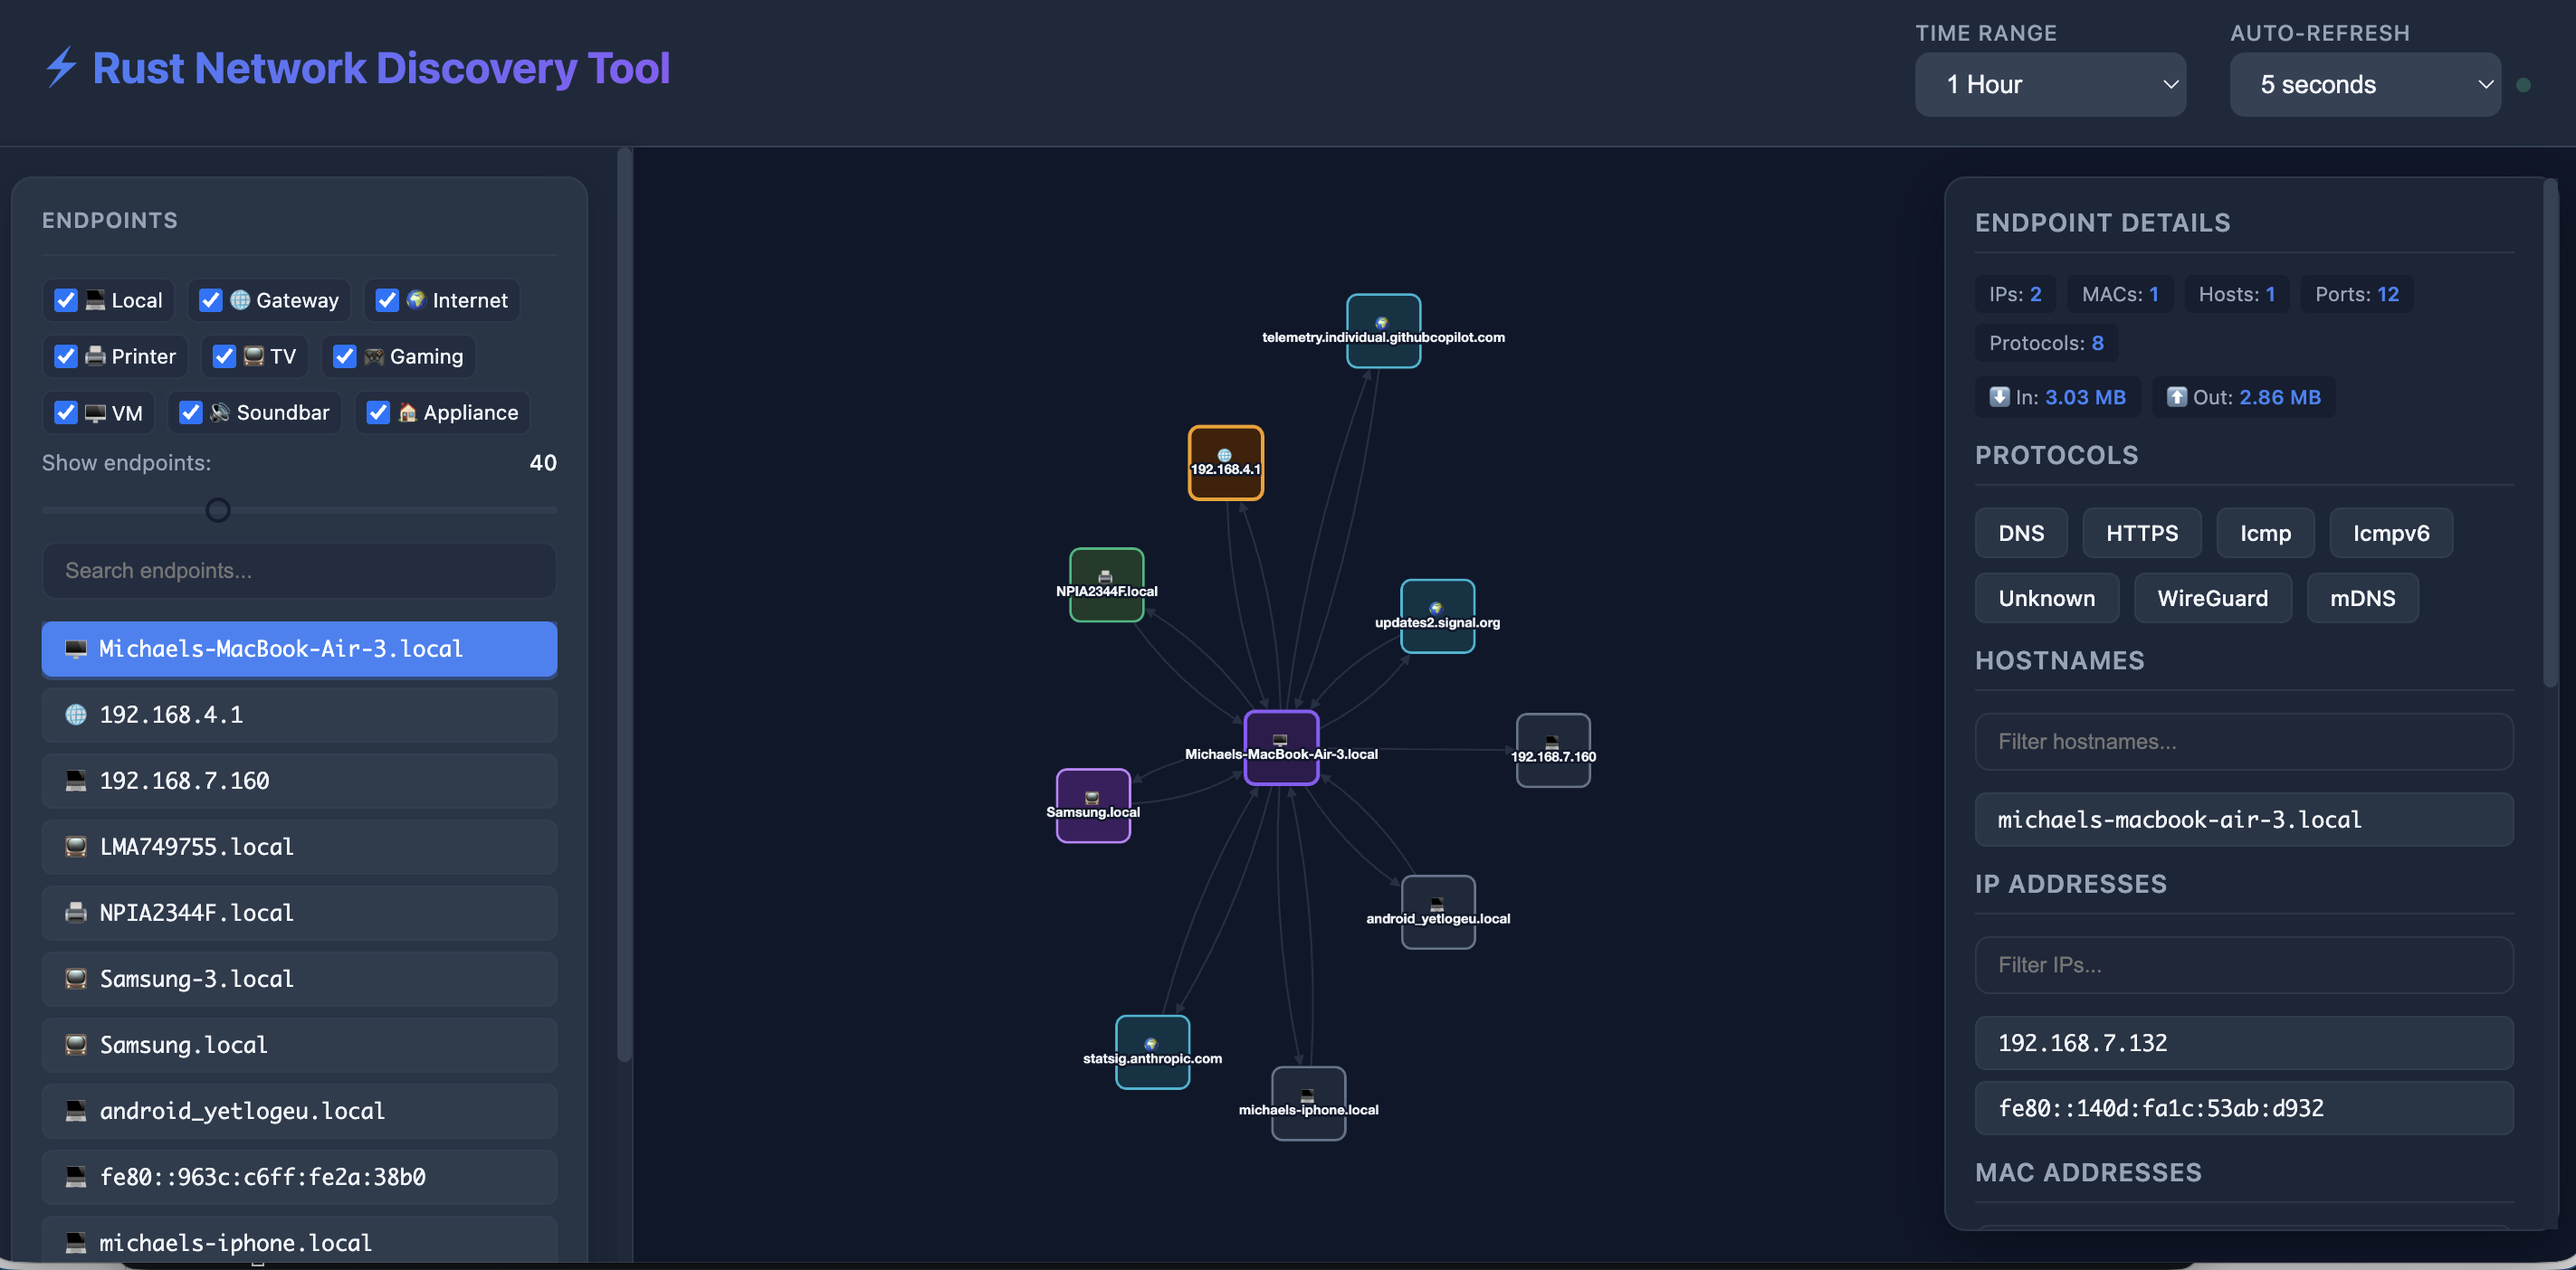
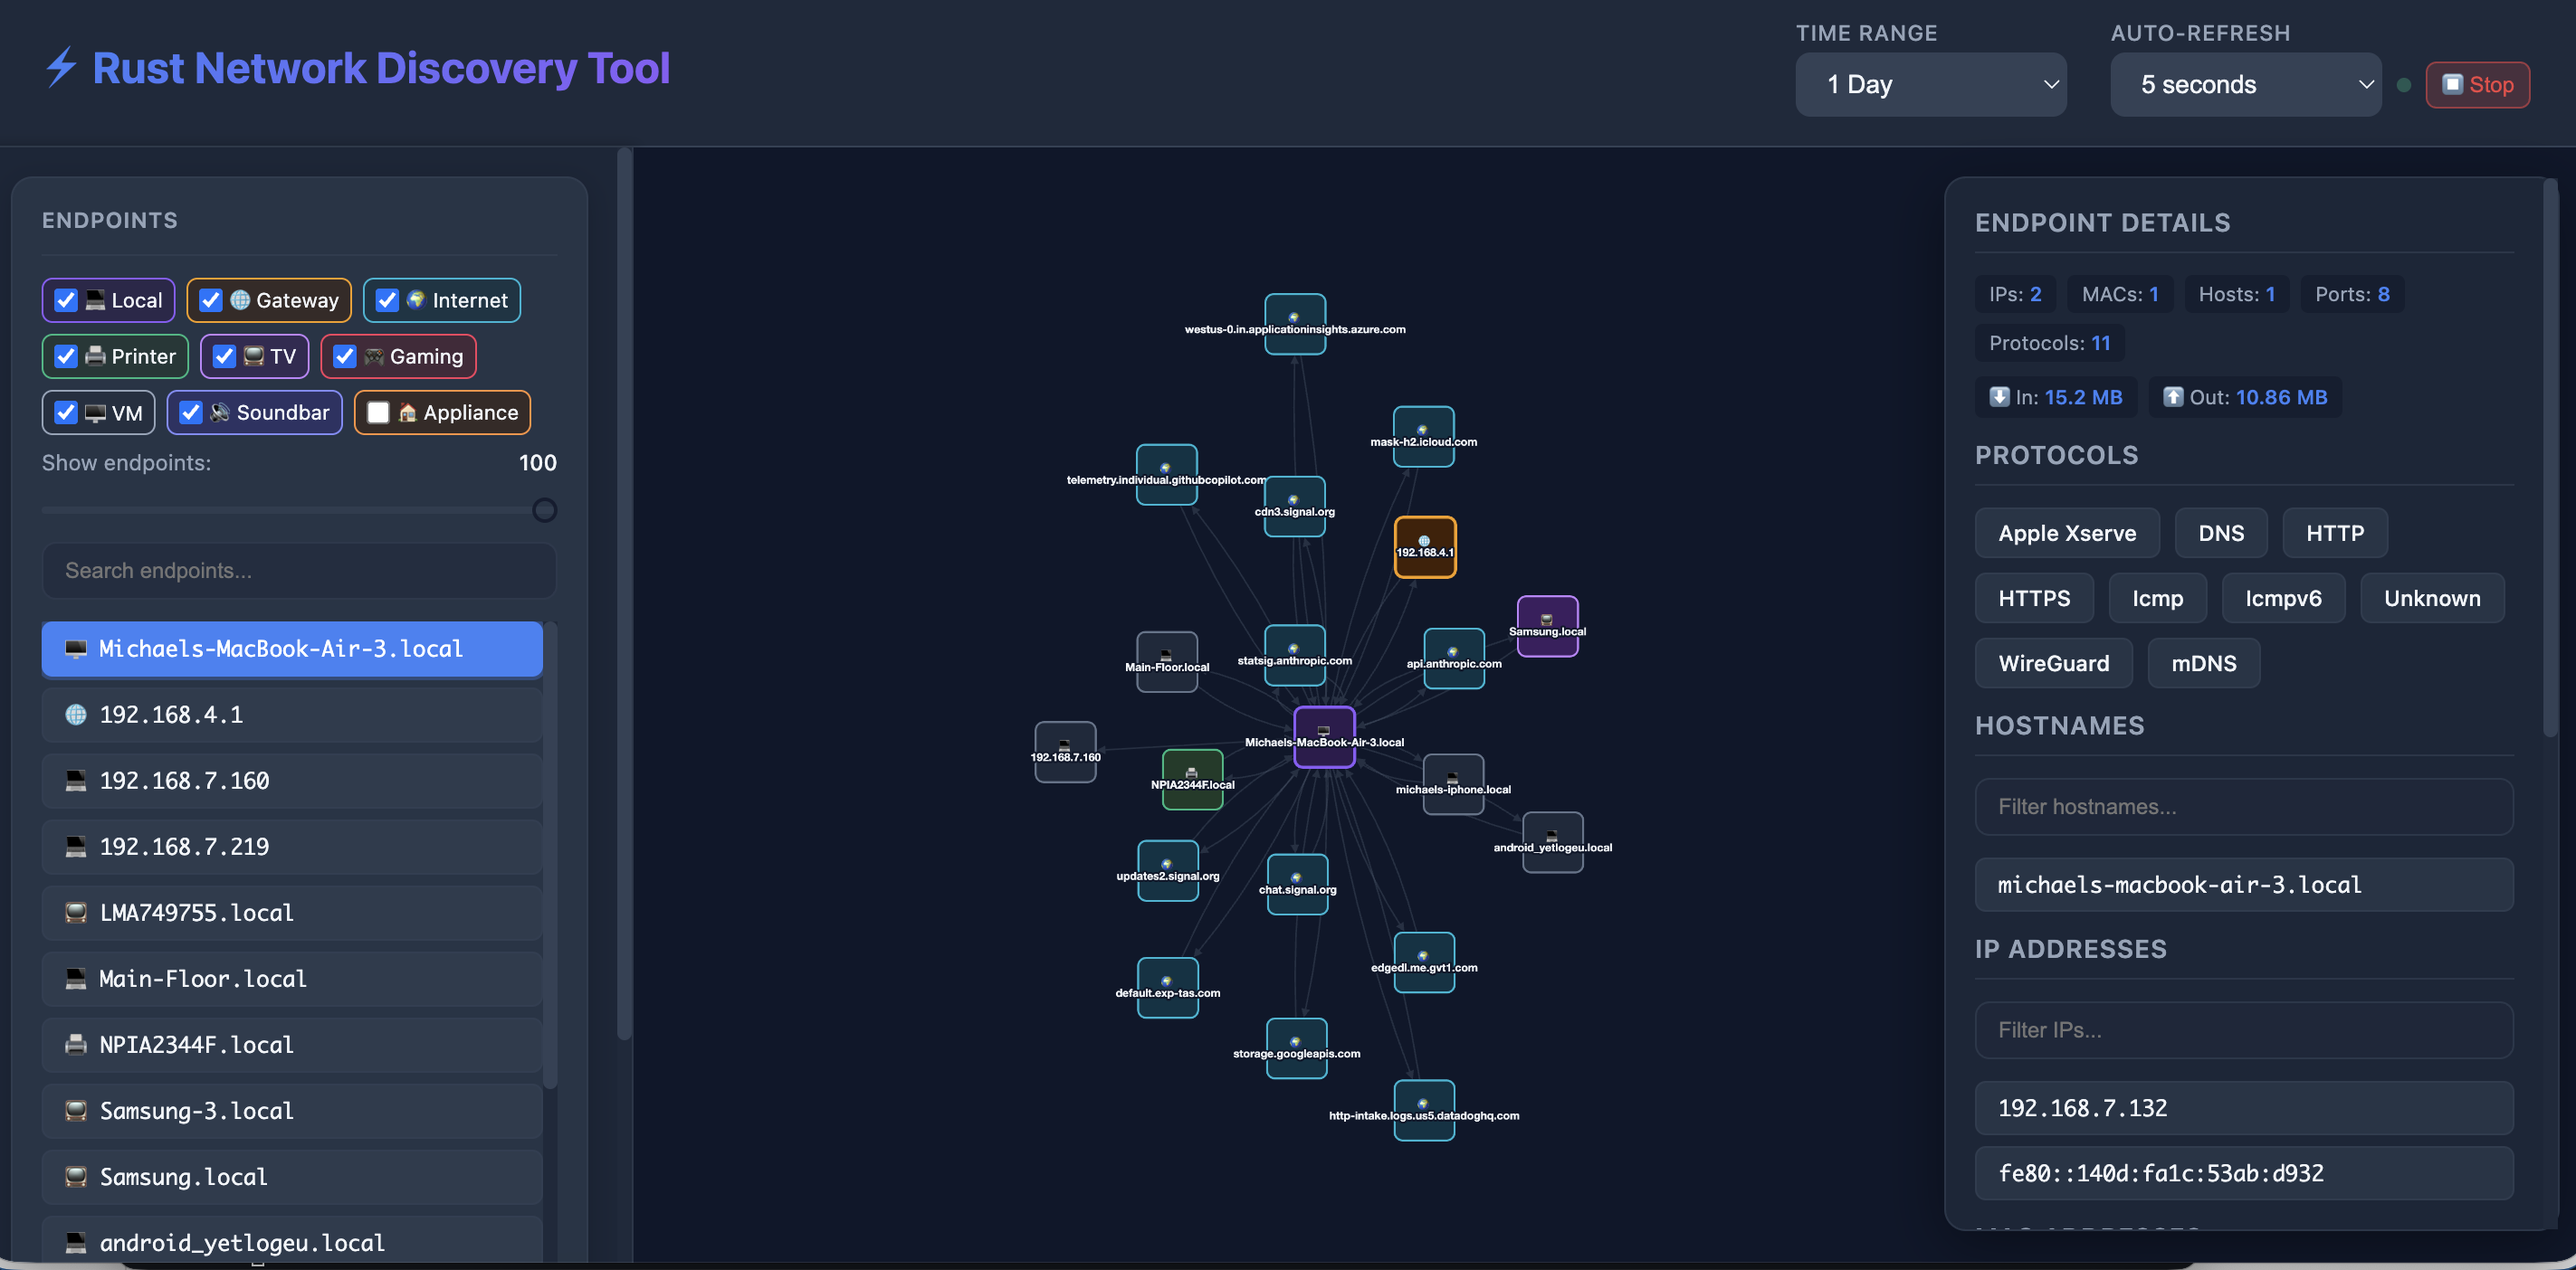
fix: More UI updates

diff --git a/templates/index.html b/templates/index.html
@@ -286,6 +286,41 @@
       50% { opacity: 0.3; }
     }
 
+    .stop-refresh-btn {
+      padding: 0.25rem 0.5rem;
+      background: rgba(239, 68, 68, 0.2);
+      border: 1px solid rgba(239, 68, 68, 0.5);
+      color: #ef4444;
+      border-radius: 0.375rem;
+      cursor: pointer;
+      font-size: 0.75rem;
+      display: flex;
+      align-items: center;
+      gap: 0.25rem;
+      transition: all 0.2s ease;
+    }
+
+    .stop-refresh-btn:hover {
+      background: rgba(239, 68, 68, 0.3);
+      border-color: #ef4444;
+      transform: scale(1.05);
+    }
+
+    .stop-refresh-btn:active {
+      transform: scale(0.95);
+    }
+
+    .stop-refresh-btn.play {
+      background: rgba(34, 197, 94, 0.2);
+      border: 1px solid rgba(34, 197, 94, 0.5);
+      color: #22c55e;
+    }
+
+    .stop-refresh-btn.play:hover {
+      background: rgba(34, 197, 94, 0.3);
+      border-color: #22c55e;
+    }
+
     /* Scrollbar styling */
     ::-webkit-scrollbar {
       width: 8px;
@@ -497,6 +532,9 @@
             <option value="60">1 minute</option>
           </select>
           <div class="pulse"></div>
+          <button id="refreshToggleBtn" onclick="toggleRefresh()" class="stop-refresh-btn" title="Stop auto-refresh">
+            ⏹ Stop
+          </button>
         </div>
       </div>
     </div>
@@ -510,41 +548,41 @@
         <!-- Filters -->
         <div style="display: flex; flex-direction: column; gap: 0.375rem; margin-top: 0.75rem; margin-bottom: 0.5rem;">
           <div style="display: flex; gap: 0.375rem; flex-wrap: nowrap;">
-            <label style="display: flex; align-items: center; gap: 0.25rem; font-size: 0.7rem; cursor: pointer; padding: 0.25rem 0.375rem; background: rgba(30, 41, 59, 0.6); border-radius: 0.375rem; border: 1px solid rgba(51, 65, 85, 0.6); white-space: nowrap;">
+            <label style="display: flex; align-items: center; gap: 0.25rem; font-size: 0.7rem; cursor: pointer; padding: 0.25rem 0.375rem; background: rgba(45, 27, 78, 0.5); border-radius: 0.375rem; border: 1px solid #8b5cf6; white-space: nowrap;">
               <input type="checkbox" id="filterLocal" checked onchange="applyFilters()" style="cursor: pointer;">
               <span>💻 Local</span>
             </label>
-            <label style="display: flex; align-items: center; gap: 0.25rem; font-size: 0.7rem; cursor: pointer; padding: 0.25rem 0.375rem; background: rgba(30, 41, 59, 0.6); border-radius: 0.375rem; border: 1px solid rgba(51, 65, 85, 0.6); white-space: nowrap;">
+            <label style="display: flex; align-items: center; gap: 0.25rem; font-size: 0.7rem; cursor: pointer; padding: 0.25rem 0.375rem; background: rgba(66, 32, 6, 0.5); border-radius: 0.375rem; border: 1px solid #f59e0b; white-space: nowrap;">
               <input type="checkbox" id="filterGateway" checked onchange="applyFilters()" style="cursor: pointer;">
               <span>🌐 Gateway</span>
             </label>
-            <label style="display: flex; align-items: center; gap: 0.25rem; font-size: 0.7rem; cursor: pointer; padding: 0.25rem 0.375rem; background: rgba(30, 41, 59, 0.6); border-radius: 0.375rem; border: 1px solid rgba(51, 65, 85, 0.6); white-space: nowrap;">
+            <label style="display: flex; align-items: center; gap: 0.25rem; font-size: 0.7rem; cursor: pointer; padding: 0.25rem 0.375rem; background: rgba(8, 51, 68, 0.5); border-radius: 0.375rem; border: 1px solid #06b6d4; white-space: nowrap;">
               <input type="checkbox" id="filterInternet" checked onchange="applyFilters()" style="cursor: pointer;">
               <span>🌍 Internet</span>
             </label>
           </div>
           <div style="display: flex; gap: 0.375rem; flex-wrap: wrap;">
-            <label style="display: flex; align-items: center; gap: 0.25rem; font-size: 0.7rem; cursor: pointer; padding: 0.25rem 0.375rem; background: rgba(30, 41, 59, 0.6); border-radius: 0.375rem; border: 1px solid rgba(51, 65, 85, 0.6); white-space: nowrap;">
+            <label style="display: flex; align-items: center; gap: 0.25rem; font-size: 0.7rem; cursor: pointer; padding: 0.25rem 0.375rem; background: rgba(30, 58, 40, 0.5); border-radius: 0.375rem; border: 1px solid #10b981; white-space: nowrap;">
               <input type="checkbox" id="filterPrinter" checked onchange="applyFilters()" style="cursor: pointer;">
               <span>🖨 Printer</span>
             </label>
-            <label style="display: flex; align-items: center; gap: 0.25rem; font-size: 0.7rem; cursor: pointer; padding: 0.25rem 0.375rem; background: rgba(30, 41, 59, 0.6); border-radius: 0.375rem; border: 1px solid rgba(51, 65, 85, 0.6); white-space: nowrap;">
+            <label style="display: flex; align-items: center; gap: 0.25rem; font-size: 0.7rem; cursor: pointer; padding: 0.25rem 0.375rem; background: rgba(60, 31, 95, 0.5); border-radius: 0.375rem; border: 1px solid #c084fc; white-space: nowrap;">
               <input type="checkbox" id="filterTv" checked onchange="applyFilters()" style="cursor: pointer;">
               <span>📺 TV</span>
             </label>
-            <label style="display: flex; align-items: center; gap: 0.25rem; font-size: 0.7rem; cursor: pointer; padding: 0.25rem 0.375rem; background: rgba(30, 41, 59, 0.6); border-radius: 0.375rem; border: 1px solid rgba(51, 65, 85, 0.6); white-space: nowrap;">
+            <label style="display: flex; align-items: center; gap: 0.25rem; font-size: 0.7rem; cursor: pointer; padding: 0.25rem 0.375rem; background: rgba(92, 28, 46, 0.5); border-radius: 0.375rem; border: 1px solid #f43f5e; white-space: nowrap;">
               <input type="checkbox" id="filterGaming" checked onchange="applyFilters()" style="cursor: pointer;">
               <span>🎮 Gaming</span>
             </label>
-            <label style="display: flex; align-items: center; gap: 0.25rem; font-size: 0.7rem; cursor: pointer; padding: 0.25rem 0.375rem; background: rgba(30, 41, 59, 0.6); border-radius: 0.375rem; border: 1px solid rgba(51, 65, 85, 0.6); white-space: nowrap;">
+            <label style="display: flex; align-items: center; gap: 0.25rem; font-size: 0.7rem; cursor: pointer; padding: 0.25rem 0.375rem; background: rgba(30, 41, 59, 0.5); border-radius: 0.375rem; border: 1px solid #94a3b8; white-space: nowrap;">
               <input type="checkbox" id="filterVirtualization" checked onchange="applyFilters()" style="cursor: pointer;">
               <span>🖥 VM</span>
             </label>
-            <label style="display: flex; align-items: center; gap: 0.25rem; font-size: 0.7rem; cursor: pointer; padding: 0.25rem 0.375rem; background: rgba(30, 41, 59, 0.6); border-radius: 0.375rem; border: 1px solid rgba(51, 65, 85, 0.6); white-space: nowrap;">
+            <label style="display: flex; align-items: center; gap: 0.25rem; font-size: 0.7rem; cursor: pointer; padding: 0.25rem 0.375rem; background: rgba(49, 46, 129, 0.5); border-radius: 0.375rem; border: 1px solid #818cf8; white-space: nowrap;">
               <input type="checkbox" id="filterSoundbar" checked onchange="applyFilters()" style="cursor: pointer;">
               <span>🔊 Soundbar</span>
             </label>
-            <label style="display: flex; align-items: center; gap: 0.25rem; font-size: 0.7rem; cursor: pointer; padding: 0.25rem 0.375rem; background: rgba(30, 41, 59, 0.6); border-radius: 0.375rem; border: 1px solid rgba(51, 65, 85, 0.6); white-space: nowrap;">
+            <label style="display: flex; align-items: center; gap: 0.25rem; font-size: 0.7rem; cursor: pointer; padding: 0.25rem 0.375rem; background: rgba(66, 32, 6, 0.5); border-radius: 0.375rem; border: 1px solid #fb923c; white-space: nowrap;">
               <input type="checkbox" id="filterAppliance" checked onchange="applyFilters()" style="cursor: pointer;">
               <span>🏠 Appliance</span>
             </label>
@@ -580,6 +618,13 @@
 
     <main id="graph-container">
       <div id="cy"></div>
+
+      <!-- No Communications Message -->
+      <div id="no-communications-msg" style="display: none; position: absolute; top: 50%; left: calc(50% - 160px); transform: translate(-50%, -50%); text-align: center; color: var(--text-secondary); pointer-events: none;">
+        <div style="font-size: 3rem; margin-bottom: 1rem; opacity: 0.3;">📡</div>
+        <div style="font-size: 1.25rem; font-weight: 500; margin-bottom: 0.5rem;">No Communications Found</div>
+        <div style="font-size: 0.875rem; opacity: 0.7;">No network activity detected for this endpoint in the selected time range</div>
+      </div>
 
       <!-- Protocols Overlay -->
       <div class="protocols-overlay">
@@ -1131,6 +1176,9 @@
 
       // Update visible protocols in overlay
       updateVisibleProtocols();
+
+      // Check if any communications are visible after filtering
+      checkForCommunications();
     }
 
     // Filter hostnames list in right pane
@@ -1560,8 +1608,28 @@
       ],
     });
 
+    // Check if there are any visible communications and show message if empty
+    function checkForCommunications() {
+      const noCommsMsg = document.getElementById('no-communications-msg');
+
+      // Count visible edges
+      let visibleEdges = 0;
+      cy.edges().forEach(edge => {
+        if (edge.style('display') === 'element') {
+          visibleEdges++;
+        }
+      });
+
+      if (visibleEdges === 0) {
+        noCommsMsg.style.display = 'block';
+      } else {
+        noCommsMsg.style.display = 'none';
+      }
+    }
+
     // Initialize visible protocols on page load
     updateVisibleProtocols();
+    checkForCommunications();
 
     // Node click handler
     cy.on('tap', 'node', function(event) {
@@ -1588,18 +1656,43 @@
         refreshIntervalId = null;
       }
 
-      // Update pulse indicator
+      // Update pulse indicator and button state
       const pulse = document.querySelector('.pulse');
+      const toggleBtn = document.getElementById('refreshToggleBtn');
 
       if (seconds == 0) {
         pulse.style.display = 'none';
+        toggleBtn.innerHTML = '▶ Play';
+        toggleBtn.classList.add('play');
+        toggleBtn.title = 'Start auto-refresh';
       } else {
         pulse.style.display = 'block';
+        toggleBtn.innerHTML = '⏹ Stop';
+        toggleBtn.classList.remove('play');
+        toggleBtn.title = 'Stop auto-refresh';
 
         // Set new interval
         refreshIntervalId = setInterval(() => {
           window.location.reload();
         }, seconds * 1000);
+      }
+    }
+
+    // Toggle auto-refresh on/off
+    function toggleRefresh() {
+      const refreshSelect = document.getElementById('refreshInterval');
+      const currentValue = refreshSelect.value;
+
+      if (currentValue == '0') {
+        // Currently stopped, start with default 5 seconds
+        const lastInterval = localStorage.getItem('lastRefreshInterval') || '5';
+        refreshSelect.value = lastInterval;
+        updateRefreshInterval(lastInterval);
+      } else {
+        // Currently running, stop it
+        localStorage.setItem('lastRefreshInterval', currentValue);
+        refreshSelect.value = '0';
+        updateRefreshInterval('0');
       }
     }
 
